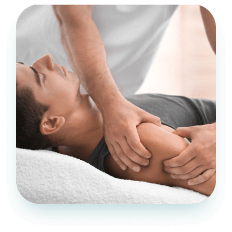
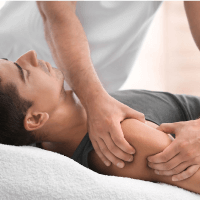
finish site

diff --git a/css/main.min.css b/css/main.min.css
@@ -1,1 +1,1 @@
-body,html{height:100%}*,::after,::before,ol,ul{padding:0;margin:0}body,img{display:-webkit-box;display:-ms-flexbox}h1,h2,h3,h4,h5,h6,ol,ul{margin:0}.button,body{line-height:1.5}.contact__title,.home__title{font-family:"Open Sans Condensed",Arial,sans-serif}.contact,.contact__action,.services,.services__title{text-align:center}.services__list,body{-webkit-box-orient:vertical;-webkit-box-direction:normal}@font-face{font-display:swap;font-family:"Open Sans";font-style:normal;font-weight:400;src:url("../fonts/open-sans-v35-latin-regular.woff2") format("woff2")}@font-face{font-display:swap;font-family:"Open Sans";font-style:normal;font-weight:600;src:url("../fonts/open-sans-v35-latin-600.woff2") format("woff2")}@font-face{font-display:swap;font-family:"Open Sans";font-style:normal;font-weight:700;src:url("../fonts/open-sans-v35-latin-700.woff2") format("woff2")}@font-face{font-family:"Open Sans Condensed";src:url("../fonts/OpenSansCondensed-Bold.woff2") format("woff2"),url("../fonts/OpenSansCondensed-Bold.woff") format("woff");font-weight:700;font-style:normal;font-display:swap}html{font-size:62.5%;scroll-behavior:smooth}body{font-family:"Open Sans",Arial,sans-serif;font-size:1.6rem;font-weight:400;color:#444;display:flex;-ms-flex-direction:column;flex-direction:column}.site-logo::before,a{display:inline-block}*,::after,::before{-webkit-box-sizing:border-box;box-sizing:border-box}main{-webkit-box-flex:1;-ms-flex-positive:1;flex-grow:1}a{text-decoration:none;color:inherit;font-size:inherit}ol,ul{list-style:none}button,input{cursor:pointer;border:none;outline:0}button:focus,input:focus{outline:0}img{display:flex;-o-object-fit:cover;object-fit:cover}address{font-style:normal}.container{max-width:1200px;width:100%;margin:0 auto;padding:0 5rem}.button{background:#de2e54;border:2px solid #de2e54;border-radius:8px;padding:1.2rem 2.4rem;color:#fff;font-size:1.5rem;font-weight:700;-webkit-transition:.5s;-o-transition:.5s;transition:.5s}.button:hover{background:#fff;color:#de2e54}.button:active{background:#de2e54;color:#fff;opacity:.6}.home__button:hover{color:#fff;background:rgba(222,46,84,.8)}.home__button:active{background:rgba(222,46,84,.6)}.contact__button{background:0 0;border-color:#fff}.contact__button:hover{background:#de2e54;border-color:#de2e54;color:#fff}.footer .navigation__item:hover,.navigation__item:hover,.site-logo:hover{color:#de2e54}.contact__button:active{opacity:.6}.header{padding:2.4rem 0}.footer__container,.header__container,.home__container{display:-webkit-box;display:-ms-flexbox;display:flex;-webkit-box-pack:justify;-ms-flex-pack:justify;justify-content:space-between;-webkit-box-align:center;-ms-flex-align:center;align-items:center}.navigation__list,.site-logo{display:-webkit-box;display:-ms-flexbox}.navigation__list{display:flex;-webkit-box-pack:justify;-ms-flex-pack:justify;justify-content:space-between;-webkit-box-align:center;-ms-flex-align:center;align-items:center;gap:3.2rem}.navigation__item{font-weight:700;font-size:1.4rem;letter-spacing:2px;text-transform:uppercase;color:#222;-webkit-transition:.3s;-o-transition:.3s;transition:.3s}.navigation__item:active,.site-logo:active{opacity:.6}.site-logo{display:flex;-webkit-box-align:center;-ms-flex-align:center;align-items:center;gap:1.6rem;font-weight:600;font-size:2.4rem;line-height:1.375;color:#222;-webkit-transition:.3s;-o-transition:.3s;transition:.3s}.contact__action,.services__list{display:-webkit-box;display:-ms-flexbox}.site-logo::before{content:"";width:50px;height:49.94px;background-image:url("../images/png/logo-img.png");background-repeat:no-repeat}.footer{padding:3.2rem 0;background:#222}.contact,.home{background:#0eb4c1}.footer .navigation__item,.footer__logo{color:#fff}.footer__logo:active{color:#fff;opacity:.6}.footer .navigation__item:active{color:#fff;opacity:.6}.home{padding:2.9rem 0 0;margin:0 0 12rem}.home__title{font-size:3.6rem;line-height:1.2;color:#fff;font-weight:700;margin:0 0 1.6rem}.home__description{max-width:440px;width:100%;font-size:1.8rem;color:#fff;margin:0 0 3.6rem}.contact{padding:6.4rem 0}.contact__title{font-size:3.6rem;line-height:1.2;color:#fff;font-weight:700;margin:0 0 4rem}.services__item-title,.services__title{font-family:"Open Sans Condensed",Arial,sans-serif;font-weight:700;font-size:2.4rem;line-height:1.2}.contact__action{display:flex;gap:4.4rem;-webkit-box-align:center;-ms-flex-align:center;align-items:center;-webkit-box-pack:center;-ms-flex-pack:center;justify-content:center}.services{padding:0 0 12rem}.services__title{color:#000;margin:0 0 5.6rem}.services__list{display:flex;-ms-flex-direction:column;flex-direction:column;gap:5rem;margin:0 0 5rem}.services__item{display:-webkit-box;display:-ms-flexbox;display:flex;-webkit-box-pack:justify;-ms-flex-pack:justify;justify-content:space-between;-webkit-box-align:center;-ms-flex-align:center;align-items:center;gap:6.4rem;padding:0 11.8rem;text-align:left}.services__item-title{color:"Open Sans",Arial,sans-serif;margin:0 0 2.4rem}
+body,html{height:100%}*,::after,::before,ol,ul{padding:0;margin:0}h1,h2,h3,h4,h5,h6,ol,ul{margin:0}.button,body{line-height:1.5}.button,.navigation__item{font-weight:700;text-transform:uppercase}.contact__title,.home__title{font-family:"Open Sans Condensed",Arial,sans-serif}.contact,.contact__action,.services,.services__title{text-align:center}@font-face{font-display:swap;font-family:"Open Sans";font-style:normal;font-weight:400;src:url("../fonts/open-sans-v35-latin-regular.woff2") format("woff2")}@font-face{font-display:swap;font-family:"Open Sans";font-style:normal;font-weight:600;src:url("../fonts/open-sans-v35-latin-600.woff2") format("woff2")}@font-face{font-display:swap;font-family:"Open Sans";font-style:normal;font-weight:700;src:url("../fonts/open-sans-v35-latin-700.woff2") format("woff2")}@font-face{font-family:"Open Sans Condensed";src:url("../fonts/OpenSansCondensed-Bold.woff2") format("woff2"),url("../fonts/OpenSansCondensed-Bold.woff") format("woff");font-weight:700;font-style:normal;font-display:swap}html{font-size:62.5%;scroll-behavior:smooth}body{font-family:"Open Sans",Arial,sans-serif;font-size:1.6rem;font-weight:400;color:#444;display:flex;flex-direction:column}.site-logo::before,a{display:inline-block}*,::after,::before{box-sizing:border-box}main{flex-grow:1}a{text-decoration:none;color:inherit;font-size:inherit}ol,ul{list-style:none}button,input{cursor:pointer;border:none;outline:0}button:focus,input:focus{outline:0}img{display:flex;-o-object-fit:cover;object-fit:cover}address{font-style:normal}.container{max-width:1200px;width:100%;margin:0 auto;padding:0 5rem}.button{background:#de2e54;border:2px solid #de2e54;border-radius:8px;padding:1.2rem 2.4rem;color:#fff;font-size:1.5rem;transition:.5s}.button:hover{background:#fff;color:#de2e54}.button:active{background:#de2e54;color:#fff;opacity:.6}.home__button:hover{color:#fff;background:rgba(222,46,84,.8)}.home__button:active{background:rgba(222,46,84,.6)}.contact__button{background:0 0;border-color:#fff}.contact__button:hover{background:#de2e54;border-color:#de2e54;color:#fff}.footer .navigation__item:hover,.navigation__item:hover,.site-logo:hover{color:#de2e54}.contact__button:active{opacity:.6}.header{padding:2.4rem 0}.footer__container,.header__container,.home__container{display:flex;justify-content:space-between;align-items:center}.navigation__list{display:flex;justify-content:space-between;align-items:center;gap:3.2rem}.navigation__item{font-size:1.4rem;letter-spacing:2px;color:#222;transition:.3s}.navigation__item:active,.site-logo:active{opacity:.6}.site-logo{display:flex;align-items:center;gap:1.6rem;font-weight:600;font-size:2.4rem;line-height:1.375;color:#222;transition:.3s}.site-logo::before{content:"";width:50px;height:49.94px;background-image:url("../images/png/logo-img.png");background-repeat:no-repeat}.footer{padding:3.2rem 0;background:#222}.contact,.home{background:#0eb4c1}.footer .navigation__item,.footer__logo{color:#fff}.footer__logo:active{color:#fff;opacity:.6}.footer .navigation__item:active{color:#fff;opacity:.6}.home{padding:2.9rem 0 0;margin:0 0 12rem}.home__title{font-size:3.6rem;line-height:1.2;color:#fff;font-weight:700;margin:0 0 1.6rem}.home__description{max-width:440px;width:100%;font-size:1.8rem;color:#fff;margin:0 0 3.6rem}.contact{padding:6.4rem 0}.contact__title{font-size:3.6rem;line-height:1.2;color:#fff;font-weight:700;margin:0 0 4rem}.services__item-title,.services__title{font-family:"Open Sans Condensed",Arial,sans-serif;font-weight:700;font-size:2.4rem;line-height:1.2}.contact__action{display:flex;gap:4.4rem;align-items:center;justify-content:center}.services{padding:0 0 12rem}.services__title{color:#000;margin:0 0 5.6rem}.services__list{display:flex;flex-direction:column;gap:8rem;margin:0 0 6rem}.services__item{display:flex;justify-content:space-between;align-items:center;gap:6.4rem;padding:0 11.8rem;text-align:left}.services__item-img{box-shadow:0 12px 24px -8px rgba(0,107,116,.3);border-radius:24px}.services__item-title{color:"Open Sans",Arial,sans-serif;margin:0 0 2.4rem}

diff --git a/index.html b/index.html
@@ -77,7 +77,7 @@
             </h3>
             <ul class="services__list">
                <li class="services__item">
-                  <img src="./images/png/hijoma.png" alt="Hijoma instruments" width="200" height="200">
+                  <img class="services__item-img" src="./images/png/hijoma.png" alt="Hijoma instruments" width="200" height="200">
                   <div class="services__item-info">
                      <h5 class="services__item-title">
                         Hijoma
@@ -92,7 +92,7 @@
 
 
                <li class="services__item">
-                  <img src="./images/png/terapiya.png" alt="Doctor is massaging a man" width="200" height="200">
+                  <img class="services__item-img" src="./images/png/terapiya.png" alt="Doctor is massaging a man" width="200" height="200">
                   <div class="services__item-info">
                      <h5 class="services__item-title">
                         Manual terapiya
@@ -107,7 +107,7 @@
 
 
                <li class="services__item">
-                  <img src="./images/png/zuluk.png" alt="Hijoma instruments " width="200" height="200">
+                  <img class="services__item-img" src="./images/png/zuluk.png" alt="Hijoma instruments " width="200" height="200">
                   <div class="services__item-info">
                      <h5 class="services__item-title">
                         Zuluk bilan davolash
@@ -123,7 +123,7 @@
 
 
                <li class="services__item">
-                  <img src="./images/png/honey.png" alt="Hijoma instruments" width="200" height="200">
+                  <img class="services__item-img" src="./images/png/honey.png" alt="Hijoma instruments" width="200" height="200">
                   <div class="services__item-info">
                      <h5 class="services__item-title">
                         Tabiiy dori vositalari

diff --git a/css/main.css b/css/main.css
@@ -132,6 +132,7 @@ address {
   line-height: 1.5;
   font-weight: 700;
   transition: all 0.5s ease;
+  text-transform: uppercase;
 }
 .button:hover {
   background: #fff;
@@ -309,8 +310,8 @@ address {
 .services__list {
   display: flex;
   flex-direction: column;
-  gap: 5rem;
-  margin: 0 0 5rem 0;
+  gap: 8rem;
+  margin: 0 0 6rem 0;
 }
 .services__item {
   display: flex;
@@ -319,6 +320,10 @@ address {
   gap: 6.4rem;
   padding: 0 11.8rem;
   text-align: left;
+}
+.services__item-img {
+  box-shadow: 0px 12px 24px -8px rgba(0, 107, 116, 0.3);
+  border-radius: 24px;
 }
 .services__item-title {
   font-family: "Open Sans Condensed", Arial, sans-serif;

diff --git a/sass/pages/_services.scss b/sass/pages/_services.scss
@@ -18,8 +18,8 @@
    &__list {
       display: flex;
       flex-direction: column;
-      gap: 5rem;
-      margin: 0 0 5rem 0;
+      gap: 8rem;
+      margin: 0 0 6rem 0;
 
    }
 
@@ -30,6 +30,11 @@
       gap: 6.4rem;
       padding: 0 11.8rem;
       text-align: left;
+
+      &-img{
+         box-shadow: 0px 12px 24px -8px rgba(0, 107, 116, 0.3);
+         border-radius: 24px;
+      }
 
       &-title {
          font-family: $primary-font-family;

diff --git a/sass/components/_button.scss b/sass/components/_button.scss
@@ -10,6 +10,7 @@
    line-height: $button-line-height;
    font-weight: $font-weight-700;
    transition: all 0.5s ease;
+   text-transform: uppercase;
 
    &:hover {
       background: #fff;
